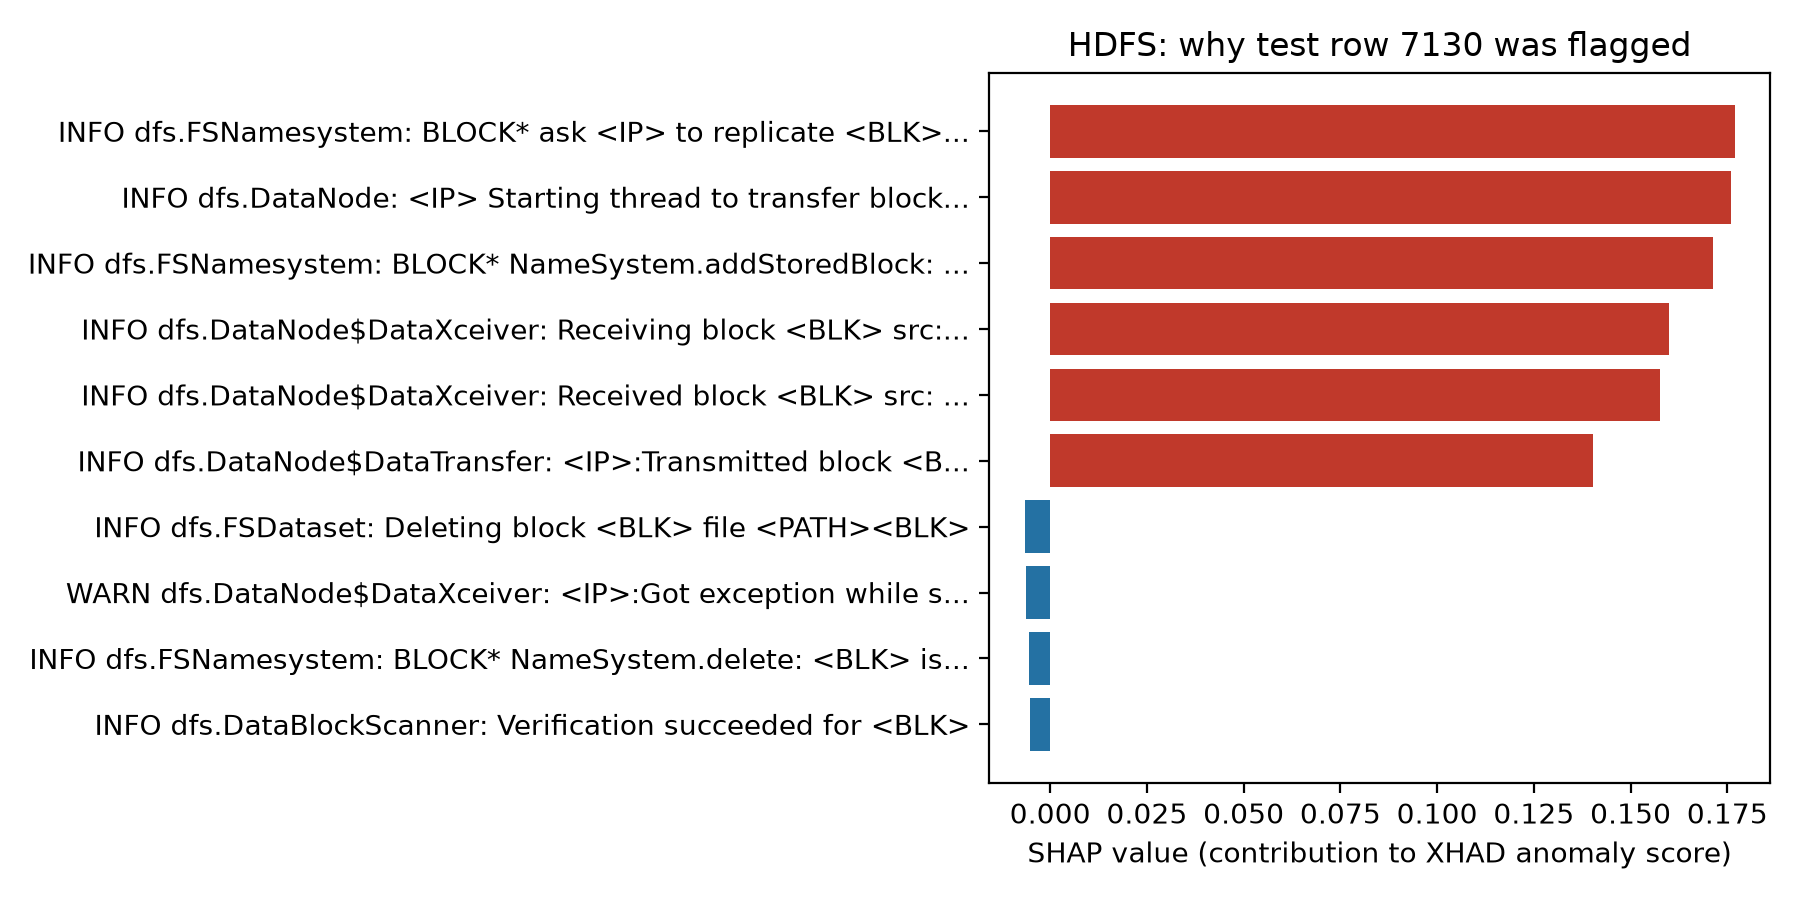
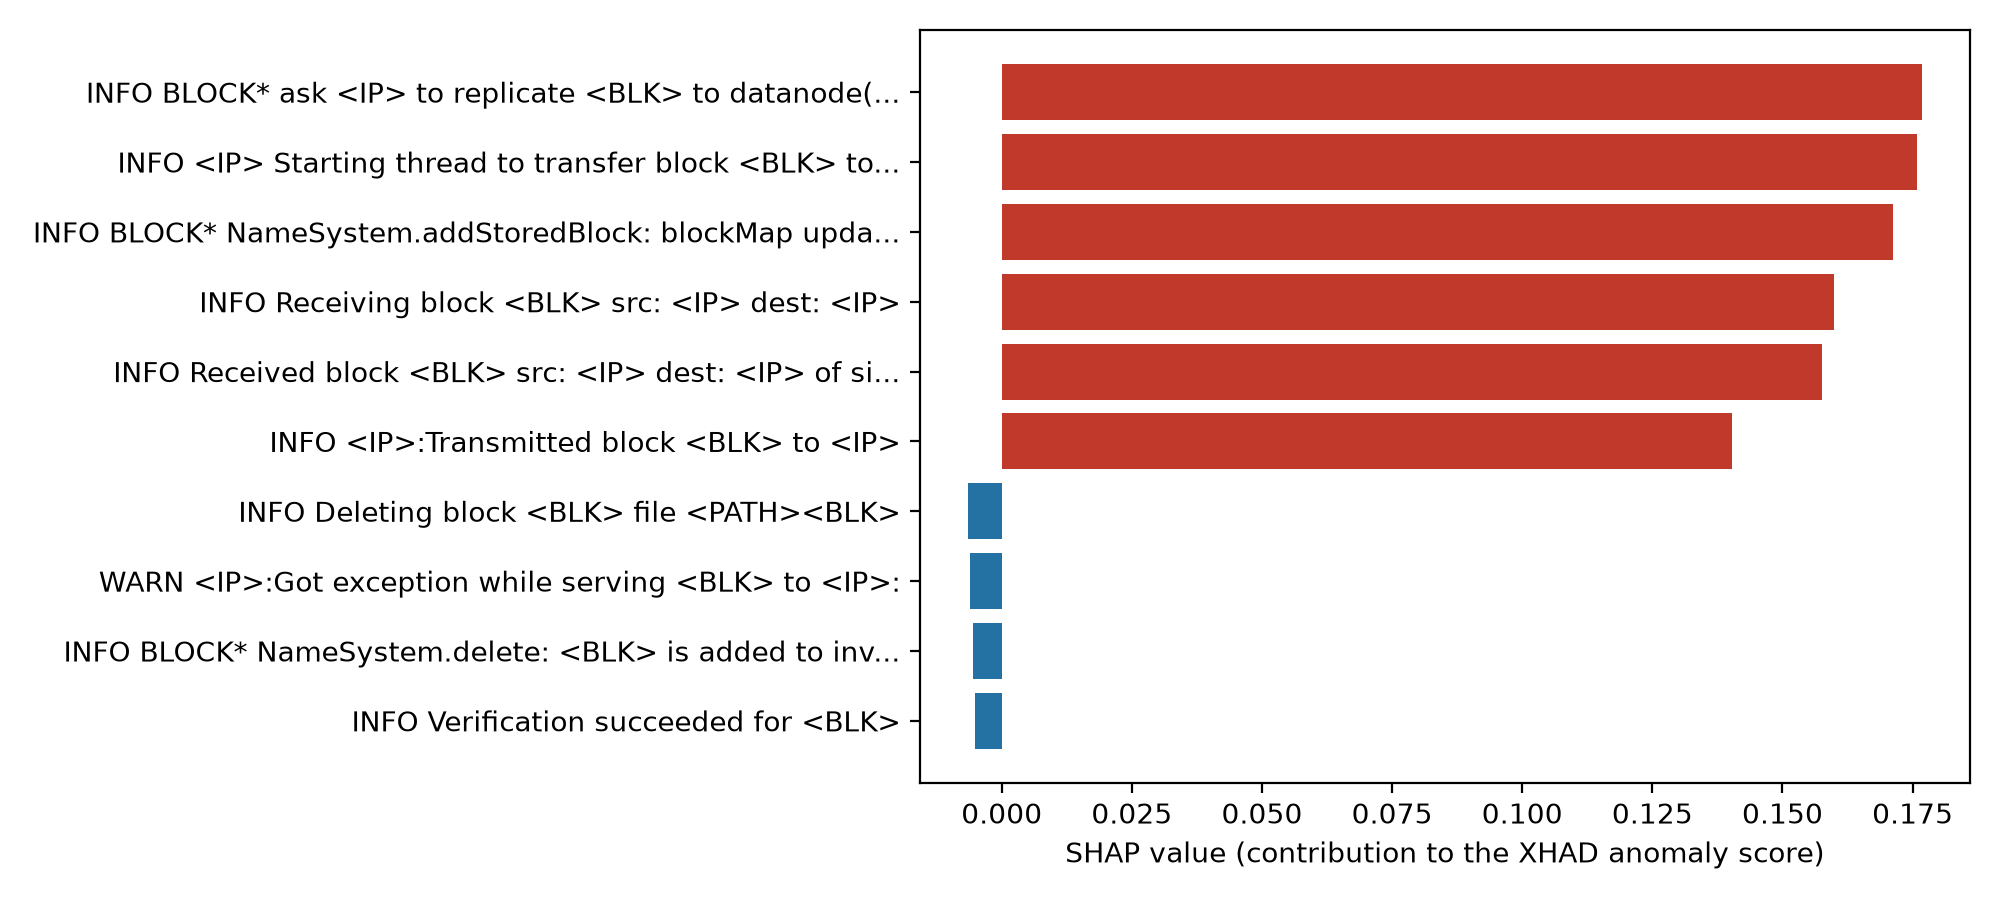
Xhad

Changed region(s): [[0.0, 0.0311, 0.9956, 0.9333], [0.5289, 0.8711, 0.9956, 0.9644]]

diff --git a/code/explain.py b/code/explain.py
@@ -21,13 +21,16 @@ with their top SHAP templates, for SREs to rate 1-5) and the figures.
 Usage:
     python explain.py hdfs
     python explain.py bgl
+    python explain.py hdfs --figures-only   # redraw figures from saved SHAP values
 Writes results/explain_<dataset>.json, results/expert_review_<dataset>.csv,
+       results/shap_<dataset>.npz,
        figures/shap_global_<dataset>.png, figures/shap_example_<dataset>.png
 """
 
 import csv
 import json
 import logging
+import re
 import sys
 import time
 
@@ -65,18 +68,43 @@ def short(template, n=60):
     return template if len(template) <= n else template[:n - 3] + "..."
 
 
-def plot_bars(values, labels, title, path):
+def figure_labels(templates, idx, width=55):
+    """
+    Template labels for a figure: the Java class is dropped
+    ('INFO dfs.DataNode$PacketResponder: Received ...' -> 'INFO Received ...'),
+    then labels are cut at the shortest width that keeps them all distinct.
+    """
+    full = [re.sub(r"^(\w+) [\w.$]+: ", r"\1 ", str(templates[i])) for i in idx]
+    for w in range(width, 121, 5):
+        cut = [short(t, w) for t in full]
+        if len(set(cut)) == len(cut):
+            return cut
+    return full
+
+
+def plot_bars(values, templates, xlabel, path):
     order = np.argsort(np.abs(values))[-10:]
-    fig, ax = plt.subplots(figsize=(9, 4.5))
+    fig, ax = plt.subplots(figsize=(10, 4.5))
     # numeric positions: two templates can shorten to the same label
     ax.barh(range(len(order)), values[order],
             color=["#c0392b" if values[i] > 0 else "#2471a3" for i in order])
-    ax.set_yticks(range(len(order)), [short(labels[i]) for i in order])
-    ax.set_xlabel("SHAP value (contribution to XHAD anomaly score)")
-    ax.set_title(title)
+    ax.set_yticks(range(len(order)), figure_labels(templates, order))
+    ax.set_xlabel(xlabel)
     fig.tight_layout()
     fig.savefig(path, dpi=200)
     plt.close(fig)
+
+
+def plot_figures(dataset, templates):
+    """Draw the paper's figures from results/shap_<dataset>.npz (first seed's SHAP values)."""
+    s = np.load(config.RESULTS_DIR / f"shap_{dataset}.npz")
+    config.FIGURES_DIR.mkdir(exist_ok=True)
+    plot_bars(np.abs(s["shap"]).mean(axis=0), templates,
+              "mean |SHAP value| over detected anomalies",
+              config.FIGURES_DIR / f"shap_global_{dataset}.png")
+    plot_bars(s["shap"][int(s["example"])], templates,
+              "SHAP value (contribution to the XHAD anomaly score)",
+              config.FIGURES_DIR / f"shap_example_{dataset}.png")
 
 
 class Shap:
@@ -182,12 +210,11 @@ def write_artefacts(dataset, d, art):
             reasons = [f"{templates[i]} ({s[i]:+.3f})" for i in np.argsort(-s)[:K]]
             w.writerow([n, int(row), f"{scores[row]:.3f}", f"{threshold:.3f}"] + reasons + ["", "", ""])
 
-    config.FIGURES_DIR.mkdir(exist_ok=True)
-    plot_bars(np.abs(sv).mean(axis=0), templates, f"{dataset.upper()}: mean |SHAP| over detected anomalies",
-              config.FIGURES_DIR / f"shap_global_{dataset}.png")
+    # the example figure shows the highest-scoring explained anomaly
     worst = int(np.argmax(art["xhad"].score(art["X"])))
-    plot_bars(sv[worst], templates, f"{dataset.upper()}: why test row {hits[worst]} was flagged",
-              config.FIGURES_DIR / f"shap_example_{dataset}.png")
+    np.savez(config.RESULTS_DIR / f"shap_{dataset}.npz",
+             test_rows=hits, shap=sv, example=worst, threshold=threshold)
+    plot_figures(dataset, templates)
     print(f"\nExample explanation (test row {hits[worst]}):")
     for i in np.argsort(-sv[worst])[:K]:
         print(f"  {sv[worst][i]:+.3f}  {short(templates[i], 90)}")
@@ -227,5 +254,8 @@ def main(dataset):
 if __name__ == "__main__":
     dataset = sys.argv[1].lower() if len(sys.argv) > 1 else ""
     if dataset not in config.DATASETS:
-        raise SystemExit("usage: python explain.py hdfs|bgl")
-    main(dataset)
+        raise SystemExit("usage: python explain.py hdfs|bgl [--figures-only]")
+    if "--figures-only" in sys.argv:
+        plot_figures(dataset, prepare(dataset)["templates"])
+    else:
+        main(dataset)
